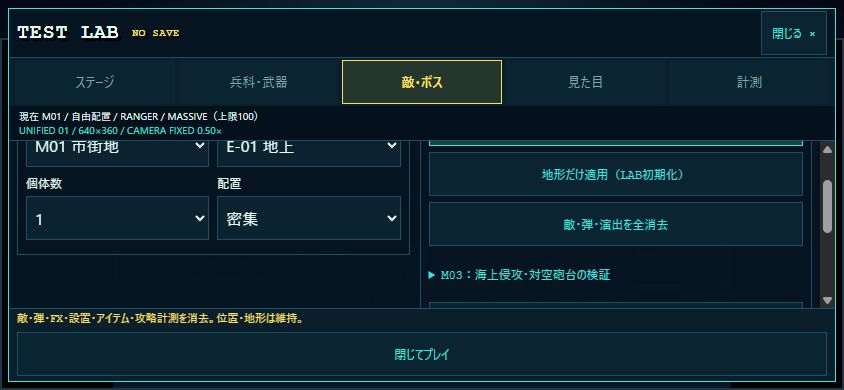
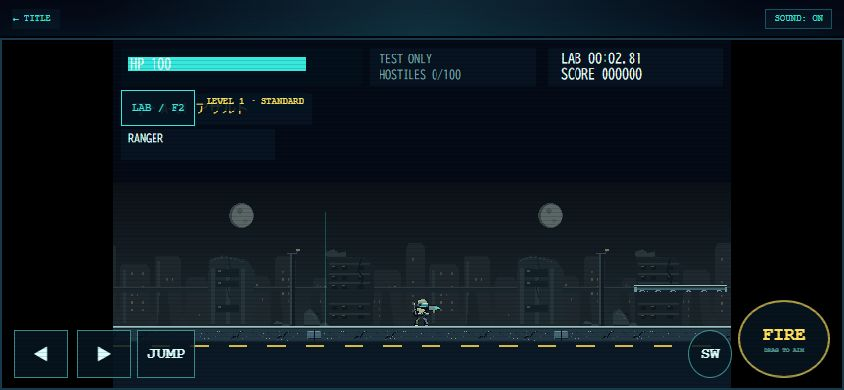
aaa

diff --git a/034_惑星重力ゲーム/js/homeward-data.js b/034_惑星重力ゲーム/js/homeward-data.js
@@ -9,17 +9,20 @@ export const HOMEWARD={
 // campaign progress are independent of FREE SPACE's editable sample data.
 export const HOMEWARD_SECTORS=[
  {id:'homeward-01',number:'01',name:'消えた星図',theme:'最初の重力航路をつなぐ',distance:1200,map:{x:12,y:78},next:'homeward-02',
-  enter:'白縁宙域。航法端末が、惑星をかすめる細い航路を見つけた。ゲートの先から、地球のものと似た時刻信号が届いている。まずは、この宙域を抜けよう。',
-  arrival:'ゲートを通過し、欠けた星図の一片を回収した。信号は確かに故郷の方向を示している。ヒナギは次の重力潮へ向かう。',
+  enter:'航行ログ01：遠い信号を捕捉。最初の航路は端末が計算済み。発射して、星のそばで曲がる軌道を見よう。',
+  arrival:'発見01：欠けた星図を回収。地球の信号が、少しだけ強くなった。',
+  initial:{angleDeg:-65,speed:220},hint:'01は初期設定のままLAUNCH。星へ近づくと航路が曲がります。',
   planets:[[1000,3300,'dense'],[1700,1900,'earth'],[2600,700,'gas']],goal:{x:2164,y:879}},
  {id:'homeward-02',number:'02',name:'ふたつの潮',theme:'離れた引力を組み合わせる',distance:1800,map:{x:35,y:62},next:'homeward-03',
-  enter:'二つの高密度惑星が、見えない潮のように航路を曲げる。最初の星だけを見ていては、その先へ届かない。二つの力の間に道を描こう。',
-  arrival:'二重の潮を抜けた。漂う観測標識に、青い惑星を示す古い方位記録が残っていた。帰還距離の見積もりを更新する。',
+  enter:'航行ログ02：二重の重力潮。今の推力では出口へ届かない。THRUSTを変え、二つの星の間へ道を探そう。',
+  arrival:'発見02：観測標識に、青い惑星の方位記録。帰還航路が一つにつながった。',
+  initial:{angleDeg:-65,speed:200},hint:'角度はそのまま、THRUSTを200から増やして予測を確認。解答例：ANGLE −65°、THRUST 220（218でも到達）。',
   planets:[[910,3200,'dense'],[1500,2700,'dense'],[2100,900,'gas']],goal:{x:3051,y:1615}},
  {id:'homeward-03',number:'03',name:'青い残響',theme:'反発と強い引力の境界を読む',distance:2400,map:{x:60,y:46},next:null,
-  enter:'反発する星の向こうで、暗い重力源と恒星が航路を挟んでいる。熱と吸収の領域を避け、遠いゲートへ。あの先なら、故郷の信号をもう少し長く受信できる。',
-  arrival:'遠い宙域に、帰還航路の基点を確保した。地球はまだ遠い。ヒナギの記録は、ここから先の未知宙域へ続いていく。',
-  planets:[[1000,3200,'repulsor'],[2000,2200,'blackhole'],[2600,900,'star']],goal:{x:1798,y:768}},
+  enter:'航行ログ03：反発する星、暗い吸収域、恒星の熱。押し返す力と引く力を読み、角度と推力を整えよう。',
+  arrival:'発見03：故郷の時刻信号を受信。地球はまだ先。それでも、帰る方向はもう失われていない。',
+  initial:{angleDeg:-60,speed:200},hint:'紫は反発、暗い星は吸収、橙の外周は熱。解答例：ANGLE −65°、THRUST 220。反発で吸収域を避け、二つの引力で出口へ曲がります。',
+  planets:[[1000,3200,'repulsor'],[1250,2300,'blackhole'],[1500,2000,'star']],goal:{x:2731,y:1245,radius:80}},
 ];
 export function getHomewardDefinition(id){return HOMEWARD_SECTORS.find(s=>s.id===id);}
 export function getHomewardSector(id){
@@ -27,8 +30,8 @@ export function getHomewardSector(id){
  const base=getStage(),planets=data.planets.map(([x,y,type],i)=>configurePlanet({id:`homeward-planet-${i+1}`,x,y},type,'medium'));
  return {...base,id:data.id,name:`HOMEWARD ${data.number} / ${data.name}`,description:data.theme,
   world:{width:3750,height:5000},worldPreset:'huge',flightLimits:{maxFlightTime:180},previewSeconds:120,
-  launch:{...base.launch,position:{x:250,y:4500},angleDeg:-65,speed:220,angleRange:[-180,180]},
-  planets,goal:{id:'sector-exit',...data.goal,radius:60},
+  launch:{...base.launch,position:{x:250,y:4500},...data.initial,angleRange:[-180,180]},
+  planets,goal:{id:'sector-exit',radius:60,...data.goal},
   rules:{minPlanets:3,maxPlanets:3,types:[...new Set(planets.map(p=>p.type))],sizes:['medium'],placement:{left:0,top:0,right:3750,bottom:5000}},
   solution:{angleDeg:-65,speed:220,planets:structuredClone(planets)},
  };

diff --git a/031_ファミコン風地球防衛軍/reports/mission-art-comparison/index.html b/031_ファミコン風地球防衛軍/reports/mission-art-comparison/index.html
@@ -1,0 +1,1 @@
+<!doctype html><html lang="ja"><meta charset="utf-8"><meta name="viewport" content="width=device-width,initial-scale=1"><title>0.3.0 / MISSION ART COMPARISON</title><style>body{margin:24px;background:#07121f;color:#d9e8ee;font:16px/1.6 system-ui}a{color:#83dbe6}img{max-width:100%;display:block;background:#000}.grid{display:grid;grid-template-columns:repeat(auto-fit,minmax(min(100%,420px),1fr));gap:20px}figure{margin:0}figcaption{font-size:14px}</style><h1>0.3.0 — 3ミッション比較</h1><p>RANGER / UNIFIED 01 / FIXED 0.50 / LAB 640×360 / 844×390 CSS px。<a href="README.md">検証範囲・制約</a></p><a href="missions-side-by-side.png"><img src="missions-side-by-side.png" alt="市街地・地下・港湾の横並び比較"></a><h2>原寸・参考画像</h2><div class="grid"><figure><a href="m01-ranger-unified640.jpg"><img loading="lazy" src="m01-ranger-unified640.jpg" alt="M01 市街地"></a><figcaption>M01 市街地</figcaption></figure><figure><a href="m02-ranger-unified640.jpg"><img loading="lazy" src="m02-ranger-unified640.jpg" alt="M02 地下"></a><figcaption>M02 地下</figcaption></figure><figure><a href="m03-ranger-unified640.jpg"><img loading="lazy" src="m03-ranger-unified640.jpg" alt="M03 港湾"></a><figcaption>M03 港湾</figcaption></figure><figure><a href="m03-boss-unified640.jpg"><img loading="lazy" src="m03-boss-unified640.jpg" alt="B-03 直接開始（警告・カメラ追従遷移中）"></a><figcaption>B-03 直接開始（警告・カメラ追従遷移中）</figcaption></figure><figure><a href="m03-rays200.jpg"><img loading="lazy" src="m03-rays200.jpg" alt="E-08 200体・LAB限定"></a><figcaption>E-08 200体・LAB限定</figcaption></figure><figure><a href="m03-sea-invasion.jpg"><img loading="lazy" src="m03-sea-invasion.jpg" alt="E-07 海上侵攻テスト"></a><figcaption>E-07 海上侵攻テスト</figcaption></figure><figure><a href="lab-m03-844x390.jpg"><img loading="lazy" src="lab-m03-844x390.jpg" alt="M03 LAB 横画面"></a><figcaption>M03 LAB 横画面</figcaption></figure><figure><a href="lab-m03-390x844.jpg"><img loading="lazy" src="lab-m03-390x844.jpg" alt="M03 LAB 縦画面"></a><figcaption>M03 LAB 縦画面</figcaption></figure></div></html>

diff --git a/031_ファミコン風地球防衛軍/reports/mission-art-comparison/README.md b/031_ファミコン風地球防衛軍/reports/mission-art-comparison/README.md
@@ -1,0 +1,87 @@
+# 0.3.0 — COASTAL DEFENSE / 3ミッション比較・QA
+
+2026-10-25 / Windows Chrome / ローカルHTTP。実ブラウザ操作で取得。iPhone実機ではない。
+
+## 同条件の3枚
+
+[横並び比較PNG（2532×434）](missions-side-by-side.png) ／ [画像一覧](index.html)。
+
+- RANGER・A-01、UNIFIED 01、固定カメラ0.50、描画640×360（LAB）、CSS画面844×390。
+- 既存LAB自由配置を使用。3ミッションともプレイヤーworld x1000/y116、カメラx680、HP100、敵消去、スコア0、FPSオーバーレイOFF、LEVEL1。
+- 画面ごとの経過時間／アニメーション位相は一致させていない。敵出現やミッション攻略の比較ではない。
+- 開始告知を消すための通常ゲーム用撮影コードは追加していない。既存の敵生成／全消去で自由配置状態を作成。
+- [各画面のDOM設定記録](comparison-settings.json)。PNGは実JPEGを原寸のまま横に並べ、44pxの条件ラベルだけを上へ追加。元画像はリサイズ・補正なし。
+- 再結合：`py -3 tools/build_mission_comparison.py`。
+
+| M01 | M02 | M03 |
+| --- | --- | --- |
+| [市街地](m01-ranger-unified640.jpg) | [地下](m02-ranger-unified640.jpg) | [港湾](m03-ranger-unified640.jpg) |
+| 青黒い都市と建物 | 閉じた天井・配管・紫灰岩盤 | 海の水平線・侵略艦影・クレーン・岸壁道路 |
+
+RANGERのサイズ・足元・装備は共通。港湾は遠景の彩度を抑え、地面上面を明るくして操作領域を区別できる。M01/M02の既存素材は変更していない。0.50倍・640での代表比較であり、320遠景の全ポーズ／大量重複／全武器FXの視認性を保証するものではない。
+
+## 参考画像
+
+- [B-03 直接開始（警告・カメラ追従遷移中）](m03-boss-unified640.jpg)
+- [E-08 200体・LAB限定](m03-rays200.jpg)
+- [E-07 海上侵攻テスト](m03-sea-invasion.jpg)
+- [M03 LAB 横画面](lab-m03-844x390.jpg)
+- [M03 LAB 縦画面](lab-m03-390x844.jpg)
+
+B-03画像は開始直後の警告と追従途中。通常のカメラ基本仕様は維持し、定常状態のフレーミングは自動テストでも確認。参考画像のズーム／敵数は主比較3枚とは異なる。
+
+## ブラウザで実行した操作
+
+- M03全5チェックポイントをCで開始し、各M03-A1〜A5-MAINのステータスを確認。
+- B-03直接開始でHPバー・海洋ボス・ボスカメラを表示。
+- E-08の200体生成、E-07の海上侵攻30体再配置、砲台ON/OFFを操作。
+- LAB5タブを維持。844×390と390×844でパネル／フッター画面内、中央横はみ出し0、外枠縦スクロール0。
+- コンソールの警告／エラー0件。
+- [操作・矩形記録](browser-verification.json)。
+
+ブラウザはLAB経路の実表示確認。通常URLからM02クリアしてM03を全編攻略した確認ではない。正常進行／報酬保存は下記の実更新QAで検証した。
+
+## 関連テスト・攻略区分
+
+Node関連 **204件成功、失敗0**。新規M03 20件に、既存のミッション／保存・LAB・武器・密度・カメラ・撃破演出・正式アートの影響範囲だけを合わせた。最終表示調整後に39件、海上侵攻調整後に34件、安全復帰／全兵科弱点命中の追加確認で20件を再実行し成功。無関係な全件テストは実行していない。
+
+Python素材5件成功。固定シード再現、既存PNG不変、全寸法・二値透過・遠景外形・核アンカーを確認。構文／diff検査成功。Arcade親indexの差分なし。
+
+| QA | 結果 | 区別 |
+| --- | --- | --- |
+| A 地形 | RANGER57.02s / SCOUT30.20s / GUARDIAN83.33s / WING49.57s、全5エリア・ワープなし・落下復帰0・侵入診断なし | 敵攻撃を止めた実移動 |
+| C 無敵戦闘 | RANGER/L-03/STANDARD、70.77s・ボス13.35s・75撃破、全エリア→実射撃→B-03結果 | 通常セーブ不変 |
+| 通常エンジンの保存QA | 同じ実移動／実射撃、ダメージ無効だけを補助、M03開始→ボス→通常リザルト・報酬・保存成功 | 人手のDではない |
+| B スポット | 被弾・海面ダメージ・衝突・射撃・ボス攻撃の判定を確認 | 無敵なし全編攻略は未確認 |
+| D 通常人手攻略 | 未確認 | A/C成功をD成功と呼ばない |
+
+初期の32px切れ目はGUARDIANの早めジャンプで反復落下したため、M03だけ24pxへ調整。兵科性能や既存M01/M02を変えず、全4兵科で通過を再確認した。
+
+## FPS・CPU
+
+[実ブラウザの計測表示記録](performance-observations.json)。
+
+| LABの生存敵数 | 有効サンプル | 除外中断 | FPS・更新／描画CPU |
+| ---: | ---: | ---: | --- |
+| 50 | 0 | 4 | 測定不能 |
+| 100 | 0 | 4 | 測定不能 |
+| 200 | 0 | 4 | 測定不能 |
+
+各区間で約1001msのフレーム中断が記録された。既存計測器は正常FPSへ加算せず除外表示した。この環境のブラウザ停止・低頻度実行をゲーム性能の優劣として評価しない。Nodeテスト実行時間も実FPSやiPhoneのCPU時間へ換算しない。
+
+## 作成・変更ファイル
+
+- 新規ロジック／描画：`js/mission03.js`、`js/coastal-art.js`。
+- 接続：`js/game.js`、`js/data.js`、`js/invasion.js`、`js/camera.js`、`js/impact.js`、`js/mission-lab.js`、`js/playground.js`、`js/weapons.js`、`js/mission02.js`（isBossへのB-03追加のみ）。
+- UI／version：`index.html`、`package.json`。CSSの再設計なし。
+- 素材：`tools/coastal_assets.py`、`tools/generate_assets.py`（専用CLI入口）、`assets/coastal-01/`（19シート＋一覧PNG、manifest、218セル）。実行時は16シート、分離3背景は合成元。
+- テスト：`tests/coastal.test.mjs`、`tests/test_coastal_assets.py`、`tests/helpers/runtime.mjs`、`tests/data.test.mjs`、`tests/lab-ui.test.mjs`、`tests/mission-lab.test.mjs`、`tests/mission02.test.mjs`（version・新ミッション・チェックポイント期待値）。
+- 文書：README、GAME_SPEC、ASSET_MANIFEST、DEBUG_PLAYGROUND、ART_UNIFICATION、新規[MISSION_03](../../docs/MISSION_03.md)。
+- 比較：`tools/build_mission_comparison.py`、本フォルダ。
+
+## 未確認・次の改善候補
+
+実機iPhone Safari・実タッチ・長時間前景のFPS/CPU/GPUメモリ、無敵なしの人手通常攻略D、初期武器の難易度、全20武器FXと新地形の全組合せの目視、通常URLからの全編M03ブラウザ攻略は未確認。
+
+次はDで対空射撃・回復配置・Phase3の予兆回避・海面復帰を検証し、実機50/100体の有効前景測定を優先する。QAの短いクリア時間だけでバランスを無断変更しない。
+
